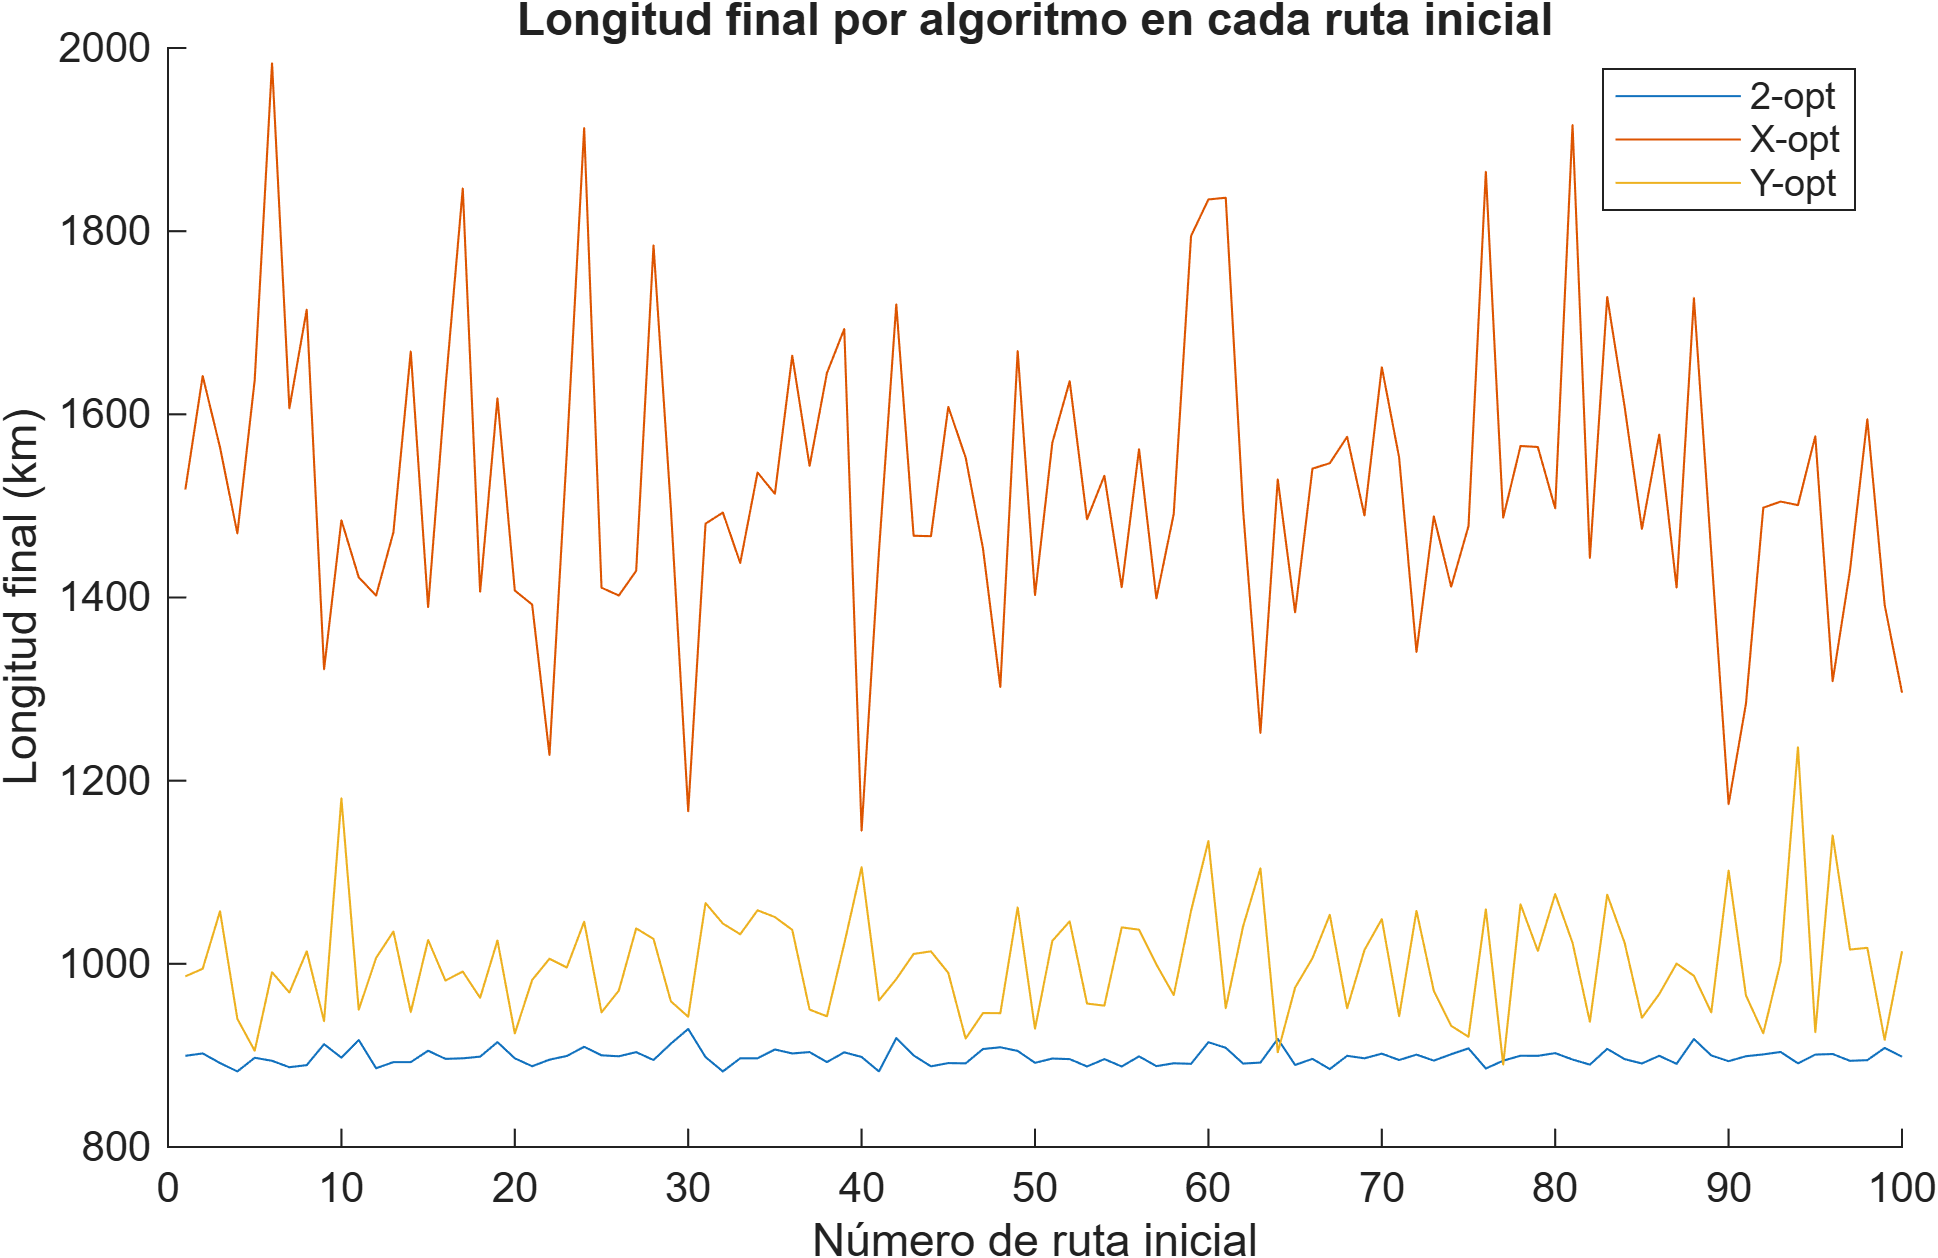
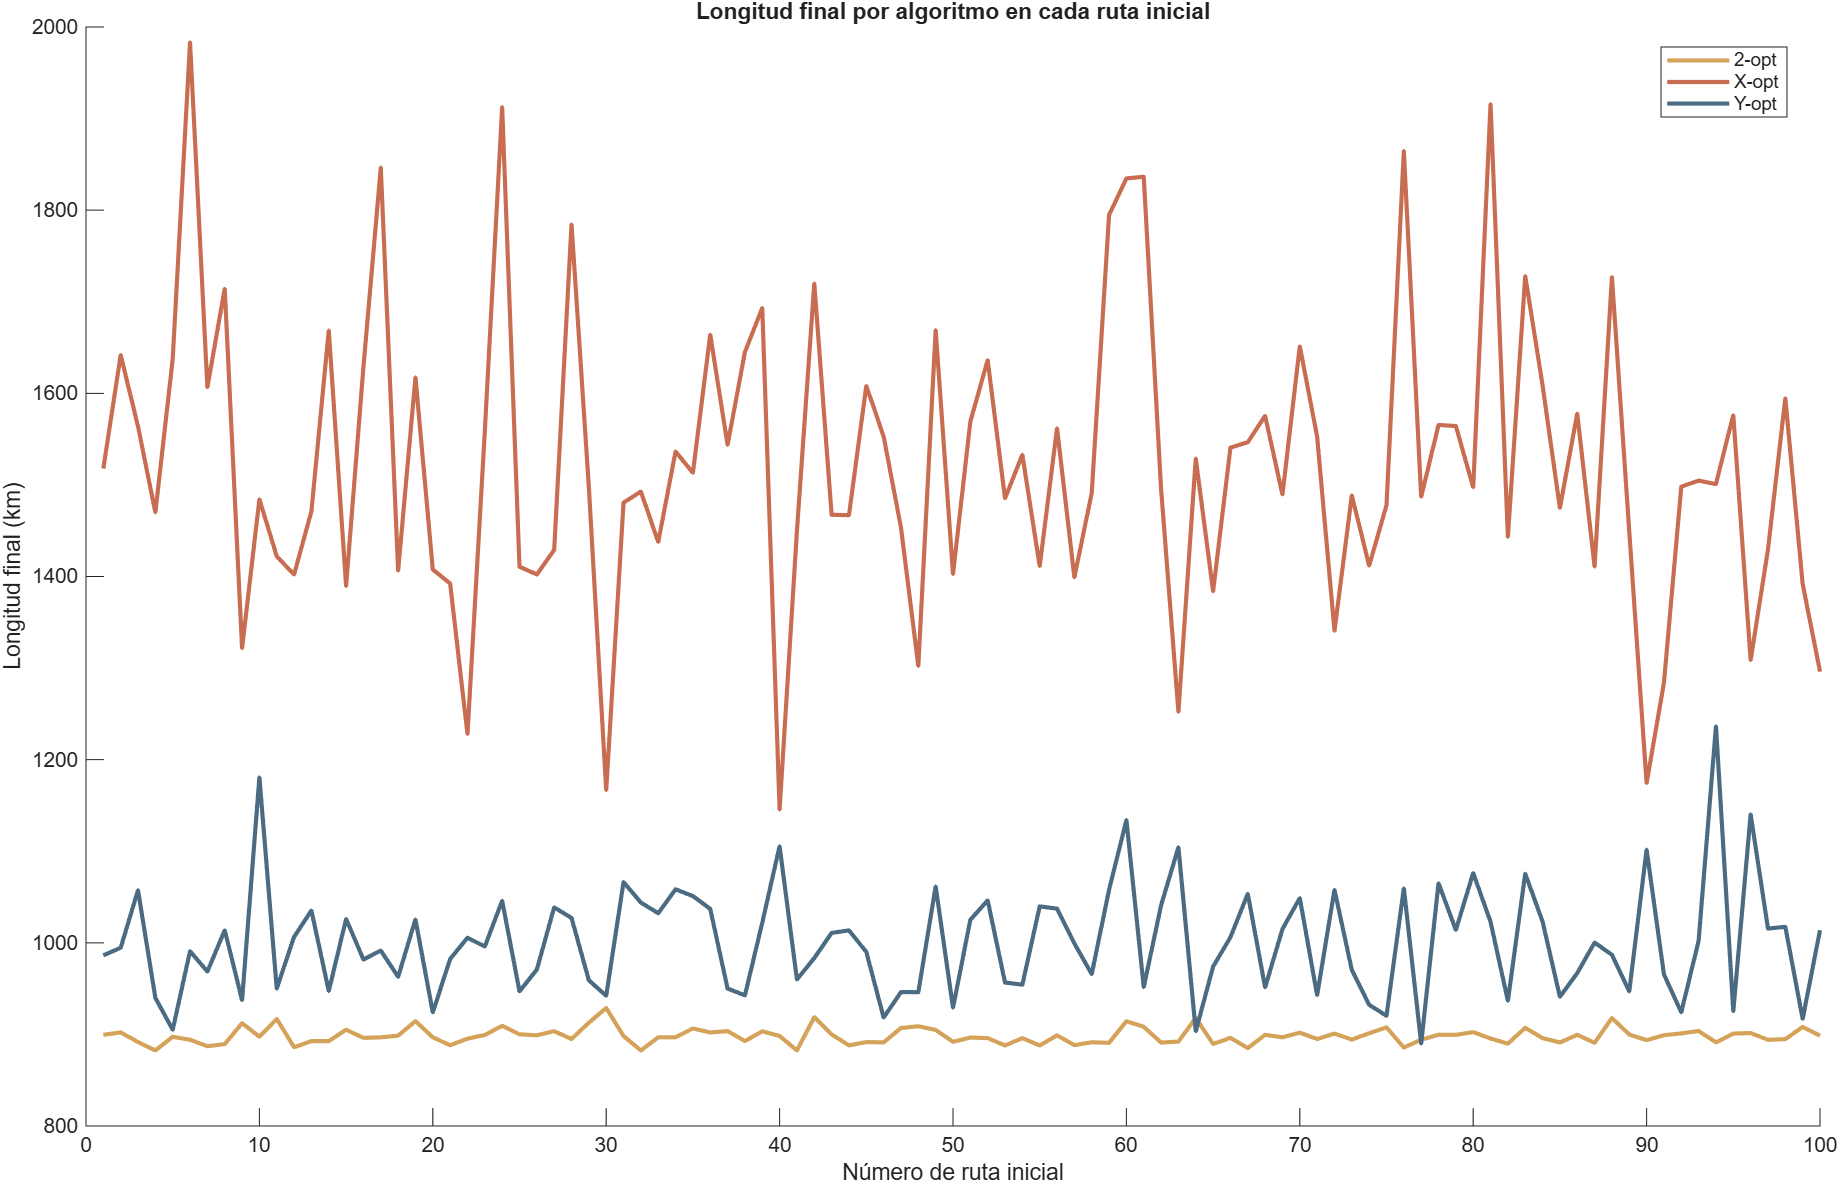
feat: se agregan dos gráficos y se ordena el codigo

diff --git a/Proyecto/codigo/Primer_avance/graficos.m b/Proyecto/codigo/Primer_avance/graficos.m
@@ -1,35 +1,38 @@
-% Este documento es para hacer los gráficos
+%% Datos y colores
 
-% Moverse a la carpeta donde está este archivo
 cd(fileparts(mfilename('fullpath')))
-
-% Leer los datos exportados desde Python
 datos = readtable('../../datos/localidades_seleccionadas.csv');
+resultados = readtable('../../datos/resultados_algoritmos.csv', 'TextType', 'string', 'Delimiter', ',');
 
 % Latitud y longitud
-
 lat = datos.latitud;
 lon = datos.longitud;
 
-% Límites del mapa con un pequeño margen
+% Límites del mapa
 latlim = [min(lat) - 0.15, max(lat) + 0.15];
 lonlim = [min(lon) - 0.15, max(lon) + 0.15];
 
-% Figura de ubicación de las localidades
+algoritmos = ["2-opt", "X-opt", "Y-opt"];
+n_alg = numel(algoritmos);
+
+% Colores de la paleta de la presentación 
+colores = [212 163 89; 200 109 81; 74 107 130] / 255;
+verde_salvia = [86 106 90] / 255;
+
+%% Localidades seleccionadas
+% Mapa con la ubicación de las 50 localidades
+
 figure
-geoscatter(lat, lon, 50, 'filled')
+geoscatter(lat, lon, 50, verde_salvia, 'filled')
 geobasemap streets-light
 geolimits(latlim, lonlim)
 title('Localidades seleccionadas')
 exportgraphics(gcf, '../../figuras/localidades.png', 'Resolution', 300)
 
-% Leer los resultados de los tres algoritmos
-resultados = readtable('../../datos/resultados_algoritmos.csv', 'TextType', 'string', 'Delimiter', ',');
+%% Rutas finales de cada algoritmo
+% Ruta final que obtiene cada algoritmo partiendo de la misma ruta inicial
+% El título de cada mapa indica la longitud de la ruta en km
 
-algoritmos = ["2-opt", "X-opt", "Y-opt"];
-n_alg = numel(algoritmos);
-
-% Mapa con la ruta final de cada algoritmo
 id_ruta_mapa = 1;
 
 figure
@@ -41,9 +44,9 @@ for a = 1:n_alg
     ruta = [ruta, ruta(1)];                                                % regreso a la localidad inicial
 
     nexttile
-    geoplot(lat(ruta), lon(ruta), '-', 'LineWidth', 0.8)
+    geoplot(lat(ruta), lon(ruta), '-', 'LineWidth', 1.3, 'Color', colores(a, :))
     hold on
-    geoscatter(lat, lon, 15, 'filled')
+    geoscatter(lat, lon, 13, 'k', 'filled')
     hold off
     geobasemap streets-light
     geolimits(latlim, lonlim)
@@ -54,13 +57,14 @@ sgtitle(sprintf('Ruta final obtenida desde la ruta inicial %d', id_ruta_mapa))
 drawnow; pause(3)
 exportgraphics(gcf, '../../figuras/mapa_rutas_finales.png', 'Resolution', 300)
 
+%% Longitud final en las 100 rutas iniciales
+% Longitud final de cada algoritmo para cada una de las 100 rutas iniciales aleatorias
 
-% Longitud final de cada algoritmo en las 100 rutas iniciales
 figure
 hold on
 for a = 1:n_alg
     filas = resultados.algoritmo == algoritmos(a);
-    plot(resultados.id_ruta(filas), resultados.longitud_final(filas))
+    plot(resultados.id_ruta(filas), resultados.longitud_final(filas), 'LineWidth', 2, 'Color', colores(a, :))
 end
 hold off
 xlabel('Número de ruta inicial')
@@ -69,14 +73,16 @@ title('Longitud final por algoritmo en cada ruta inicial')
 legend(algoritmos, 'Location', 'best')
 exportgraphics(gcf, '../../figuras/longitudes_finales.png', 'Resolution', 300)
 
-% Longitud final media de cada algoritmo según el número de localidades (equivalente a la Fig. 6 del artículo)
+%% Longitud final media según el número de localidades
+% Longitud final promedio de cada algoritmo al aumentar el número de localidades.
+
 rendimiento = readtable('../../datos/rendimiento_por_n.csv', 'TextType', 'string');
 
 figure
 hold on
 for a = 1:n_alg
     filas = rendimiento.algoritmo == algoritmos(a);
-    plot(rendimiento.n(filas), rendimiento.longitud_media(filas), '-s')
+    plot(rendimiento.n(filas), rendimiento.longitud_media(filas), '-s', 'LineWidth', 2, 'Color', colores(a, :), 'MarkerFaceColor', colores(a, :))
 end
 hold off
 xlabel('Número de localidades (n)')
@@ -84,3 +90,40 @@ ylabel('Longitud final media (km)')
 title('Longitud final media por algoritmo según el número de localidades')
 legend(algoritmos, 'Location', 'best')
 exportgraphics(gcf, '../../figuras/longitud_media_por_n.png', 'Resolution', 300)
+
+%% Tiempo de ejecución según el número de iteraciones
+% Cada punto es una de las 100 rutas iniciales
+% Compara las iteraciones (parejas de aristas evaluadas) con el tiempo que tardó el algoritmo
+
+figure
+hold on
+for a = 1:n_alg
+    filas = resultados.algoritmo == algoritmos(a);
+    scatter(resultados.parejas_evaluadas(filas), resultados.tiempo_ejecucion(filas), 25, colores(a, :), 'filled', 'MarkerFaceAlpha', 0.8)
+end
+hold off
+xlabel('Número de iteraciones')
+ylabel('Tiempo de ejecución (s)')
+title('Tiempo de ejecución según el número de iteraciones')
+legend(algoritmos, 'Location', 'best')
+exportgraphics(gcf, '../../figuras/iteraciones_vs_tiempo.png', 'Resolution', 300)
+
+%% Tiempo promedio por iteración
+% Tiempo total entre el total de iteraciones de cada algoritmo en microsegundos
+
+tiempo_por_iteracion = zeros(1, n_alg);
+for a = 1:n_alg
+    filas = resultados.algoritmo == algoritmos(a);
+    tiempo_total = sum(resultados.tiempo_ejecucion(filas));
+    iteraciones_totales = sum(resultados.parejas_evaluadas(filas));
+    tiempo_por_iteracion(a) = tiempo_total / iteraciones_totales * 1e6;
+end
+
+figure
+b = bar(tiempo_por_iteracion);
+b.FaceColor = 'flat';
+b.CData = colores;
+xticklabels(algoritmos)
+ylabel('Tiempo por iteración (μs)')
+title('Tiempo promedio por iteración de cada algoritmo')
+exportgraphics(gcf, '../../figuras/tiempo_por_iteracion.png', 'Resolution', 300)
